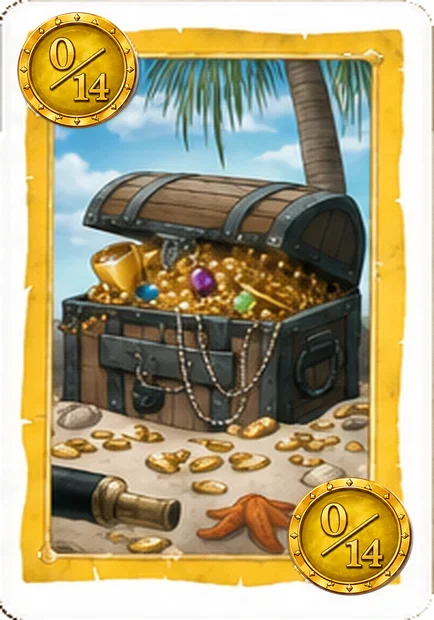
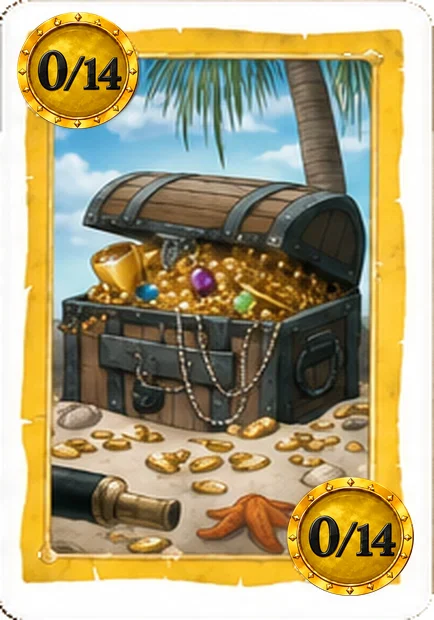
Skull King : les pièces jaunes du 0/14 passent au chiffre noir
Peintes or sur ocre, elles ne se lisaient pas, à la taille d'un médaillon
d'angle moins encore. Elles sont remplacées par des pièces repeintes chiffre
noir : les deux médaillons de la carte jaune, et les pastilles 0 et 14 du
cadre de déclaration, frappées ensuite sur la carte posée.

Les sources repeintes arrivent sur un damier peint, sans transparence : on
les détoure par la saturation (briefs/pieces_jaunes.py), que les deux scripts
de fabrication appellent pour la famille jaune.

Changed region(s): [[0.659, 0.7661, 0.9585, 0.9806], [0.03, 0.0, 0.3295, 0.2145]]

diff --git a/briefs/pieces_jaunes.py b/briefs/pieces_jaunes.py
@@ -1,0 +1,60 @@
+"""Les pièces jaunes du 0/14, repeintes chiffre noir.
+
+Peintes à l'origine chiffre d'or sur fond ocre, les pièces jaunes ne se
+lisaient pas — à la taille d'un médaillon d'angle moins encore. Elles ont été
+repeintes à part, chiffre noir, et remplacent les jaunes des planches
+d'origine :
+
+- pastilles-0-14-jaune-sk.png : trois pièces sur une rangée, 0, 14 et 0/14
+  (seules les deux premières servent : pastilles frappées à la pose) ;
+- 0-14-jaune-sk.png : une pièce 0/14 seule (médaillons d'angle de la carte).
+
+Ces images arrivent sur un damier PEINT, sans transparence, que l'écart au
+blanc des autres planches ne sépare pas des pièces (ses cases sombres passent
+le seuil). On repère donc les pièces par la saturation : le damier est gris,
+la pièce est or jusqu'à son liseré brun. Même découpe ronde que partout
+ailleurs : diamètre lu sur la largeur, haut sur le bord supérieur — les deux
+mesures que l'ombre portée ne fausse pas.
+
+Partagé par composer-cartes-0-14.py et decouper-pastilles-declaration.py.
+"""
+from pathlib import Path
+
+import numpy as np
+from PIL import Image
+
+SRC = Path(__file__).resolve().parent.parent / 'public/assets/skin/src'
+PASTILLES = SRC / 'pastilles-0-14-jaune-sk.png'
+MEDAILLON = SRC / '0-14-jaune-sk.png'
+
+
+def _plages(profil, mini=40):
+    out, debut = [], None
+    for i, dedans in enumerate(profil > 0.05):
+        if dedans and debut is None:
+            debut = i
+        elif not dedans and debut is not None:
+            if i - debut >= mini:
+                out.append((debut, i))
+            debut = None
+    if debut is not None and len(profil) - debut >= mini:
+        out.append((debut, len(profil)))
+    return out
+
+
+def detourer(chemin):
+    """Les pièces de l'image, de gauche à droite, en RGBA carrées détourées."""
+    im = Image.open(chemin).convert('RGB')
+    piece = np.asarray(im.convert('HSV'))[..., 1] > 70
+    out = []
+    for x0, x1 in _plages(piece.mean(axis=0)):
+        (y0, _), = _plages(piece[:, x0:x1].mean(axis=1))
+        cote = int((x1 - x0) * 0.99)
+        cx = (x0 + x1) // 2
+        gx, gy = cx - cote // 2, y0 + (x1 - x0 - cote) // 2
+        p = im.crop((gx, gy, gx + cote, gy + cote)).convert('RGBA')
+        axe = (np.arange(cote) - (cote - 1) / 2) / ((cote - 1) / 2)
+        d = np.hypot(*np.meshgrid(axe, axe, indexing='xy'))
+        p.putalpha(Image.fromarray((np.clip((1.0 - d) * (cote / 2), 0, 1) * 255).astype(np.uint8), 'L'))
+        out.append(p)
+    return out

diff --git a/briefs/composer-cartes-0-14.py b/briefs/composer-cartes-0-14.py
@@ -45,6 +45,8 @@ from pathlib import Path
 import numpy as np
 from PIL import Image
 
+from pieces_jaunes import MEDAILLON as SRC_JAUNE, detourer
+
 RACINE = Path(__file__).resolve().parent.parent
 SRC = RACINE / 'public/assets/skin/src/0-14-sk.png'
 CARTES = RACINE / 'public/assets/cards'
@@ -115,6 +117,12 @@ def main():
     if len(lot) != len(FAMILLES):
         print(f'{len(lot)} pastilles au lieu de {len(FAMILLES)}', file=sys.stderr)
         return 1
+    # Or sur ocre ne se lit pas : la pastille jaune vient de la pièce
+    # repeinte chiffre noir (voir pieces_jaunes.py).
+    if not SRC_JAUNE.exists():
+        print(f'absent : {SRC_JAUNE}', file=sys.stderr)
+        return 1
+    lot[0] = detourer(SRC_JAUNE)[0]
 
     for pastille, (couleur, prefixe) in zip(lot, FAMILLES):
         source = CARTES / f'{prefixe}-{MODELE}.webp'
